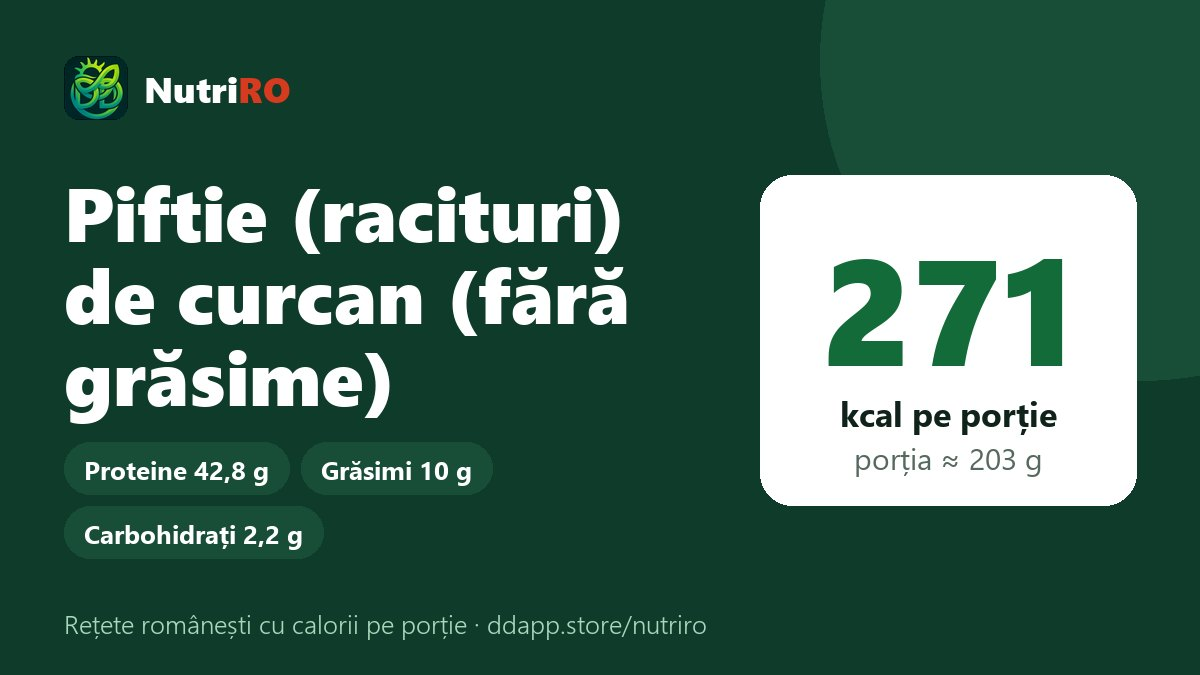
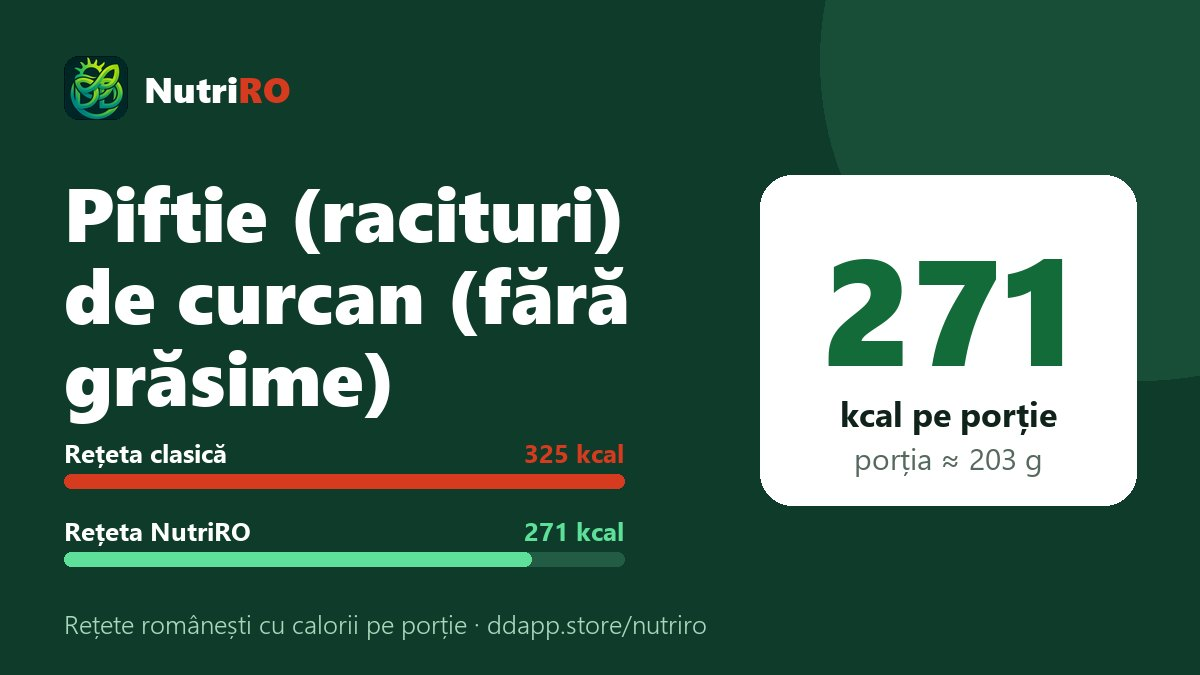
Rețete din NutriAdmin: 0 noi, 2 modificate, 0 scoase

Changed region(s): [[0.0308, 0.6533, 0.5242, 0.7467], [0.0308, 0.7778, 0.5242, 0.84]]

diff --git a/nutriro/retete/piftie-racituri-de-curcan-fara-grasime.html b/nutriro/retete/piftie-racituri-de-curcan-fara-grasime.html
@@ -46,13 +46,21 @@
     <p>O porție are 271 kcal și cântărește ≈ 203 g: 42,8 g proteine, 10 g grăsimi, 2,2 g carbohidrați (fără fibre) și 0,9 g fibre.</p>
     <div class="chips"><span>6 porții</span><span>≈ 120 min</span><span>Dificultate: medie</span><span>≈ 203 g/porție</span></div>
   </div>
-  <div class="vs">
+  <div class="vs vs-cmp">
     <div class="vs-tit">O porție de 203 g</div>
-    <div class="dif" style="border:0;padding:0"><b>271</b><span>kcal pe porție</span></div>
-    <div class="bara prot"><div class="bara-rand"><span>Proteine · 42,8 g</span><b>63%</b></div><div class="bara-fond"><i style="width:63%"></i></div></div>
-    <div class="bara gras"><div class="bara-rand"><span>Grăsimi · 10 g</span><b>33%</b></div><div class="bara-fond"><i style="width:33%"></i></div></div>
-    <div class="bara carb"><div class="bara-rand"><span>Carbohidrați · 2,2 g</span><b>3%</b></div><div class="bara-fond"><i style="width:3%"></i></div></div>
-    <p class="vs-nota">Din ce vin caloriile porției.</p>
+    <div class="vs-carduri">
+      <div class="vs-card cl"><small>Rețeta clasică</small><span class="vs-nume">Piftie de porc</span>
+        <div class="mini"><div class="mini-r"><span>Calorii</span><b>325 kcal</b></div><div class="mini-f"><i style="width:100%"></i></div></div>
+        <div class="mini gras"><div class="mini-r"><span>Grăsimi</span><b>28,4 g</b></div><div class="mini-f"><i style="width:100%"></i></div></div>
+        <div class="mini prot"><div class="mini-r"><span>Proteine</span><b>23,3 g</b></div><div class="mini-f"><i style="width:55%"></i></div></div>
+      </div>
+      <div class="vs-card li"><small>Rețeta NutriRO</small><span class="vs-nume">Piftie (racituri) de curcan (fără grăsime)</span>
+        <div class="mini"><div class="mini-r"><span>Calorii</span><b>271 kcal</b></div><div class="mini-f"><i style="width:83%"></i></div></div>
+        <div class="mini gras"><div class="mini-r"><span>Grăsimi</span><b>10 g</b></div><div class="mini-f"><i style="width:35%"></i></div></div>
+        <div class="mini prot"><div class="mini-r"><span>Proteine</span><b>42,8 g</b></div><div class="mini-f"><i style="width:100%"></i></div></div>
+      </div>
+    </div>
+    <p class="vs-dif"><span class="pill">−54 kcal</span> <span class="pill rosu">−18,4 g grăsimi</span> <span class="pill proteina">+19,5 g proteine</span> <span>pe porție, față de rețeta clasică</span></p>
   </div>
   </section>
 
